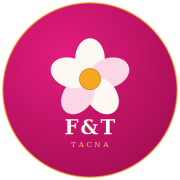
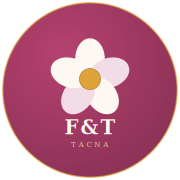
Add files via upload

diff --git a/style.css b/style.css
@@ -2,13 +2,13 @@
 
 :root{
   --cream: #FFFBF5;
-  --wine: #D6136C;
-  --wine-dark: #A30E52;
-  --rose: #FBD6E4;
-  --sage: #0F5E4C;
-  --gold: #F5A623;
+  --wine: #B5426F;
+  --wine-dark: #8A3155;
+  --rose: #F2DCE6;
+  --sage: #3E7A64;
+  --gold: #E0A33A;
   --ink: #2B2320;
-  --line: #F0DCE6;
+  --line: #EDE0E4;
   --radius: 14px;
 }
 
